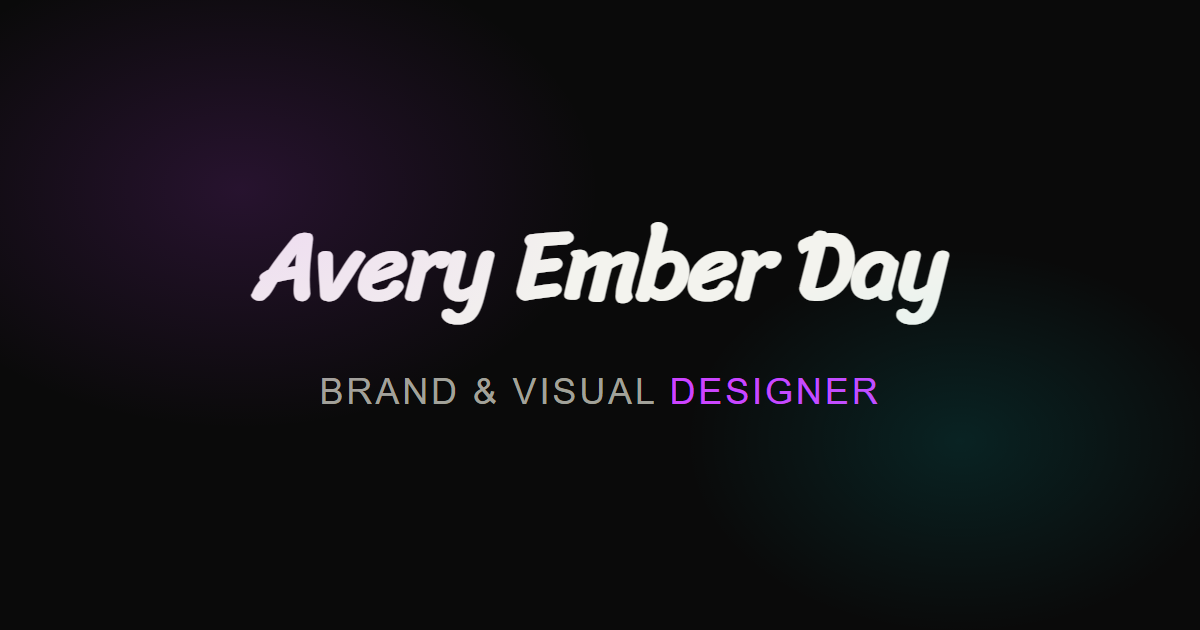
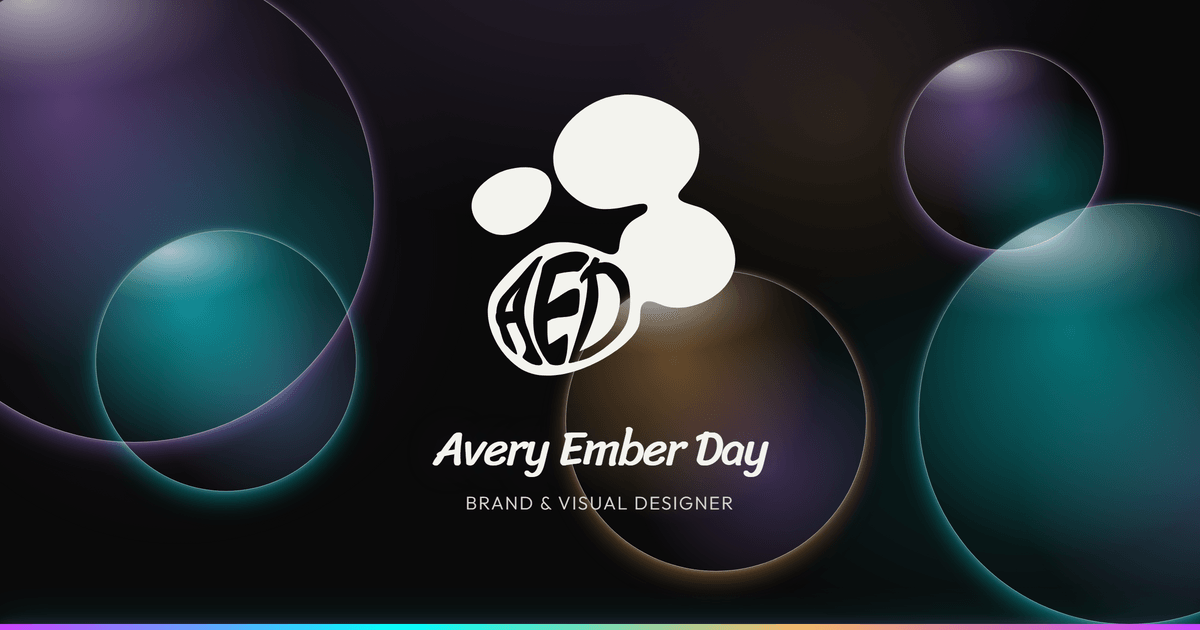
feat(meta): render the og share card from the live hero
The old card predated the current homepage entirely: no bubble logo, and a
two-tone "BRAND & VISUAL DESIGNER" treatment the site no longer uses. It was a
hand-made lookalike, so it drifted silently.

scripts/generate-og-image.js screenshots the real hero instead, so the card
tracks the site — re-run it after any hero change. Captured under reduced motion
so the ambient blobs stop at their declared positions and two runs of an
unchanged hero produce the same file. Rendered at 2x for crisp type then
downsampled to the declared 1200x630: 1.87 MB -> 153 KB.

It hides `nextjs-portal` before capturing. That is not cosmetic: the dev-tools
overlay is a real DOM element and the first render baked a red "3 Issues" badge
into the card.

New app/og.ts holds one shared image descriptor so the URL, dimensions and alt
cannot drift apart across pages. Declaring width/height/alt rather than a bare
URL is what lets Discord/Slack/Twitter lay the unfurl out without fetching the
image first.

LOGBOOK Entry 106.

diff --git a/scripts/generate-og-image.js b/scripts/generate-og-image.js
@@ -1,0 +1,103 @@
+#!/usr/bin/env node
+/**
+ * Render the social share card (`images/og-default.png`) from the live hero.
+ *
+ * The card is a screenshot of the real homepage hero rather than a hand-drawn lookalike, so it
+ * cannot drift from the site: re-run this after any hero change and the card follows. Written to
+ * BOTH `images/` and `public/` — `public/` is what the Next export serves.
+ *
+ * Requires the dev server: `npm run dev` (default http://localhost:3000).
+ * Usage: node scripts/generate-og-image.js [--url http://localhost:3000] [--theme dark|light]
+ * Plan: docs/plans/2026-07-27-contact-unhide-mistrust-assets.md
+ */
+
+const fs = require('fs');
+const path = require('path');
+const sharp = require('sharp');
+const { chromium } = require('playwright');
+
+const ROOT = path.join(__dirname, '..');
+const OUT = ['images/og-default.png', 'public/images/og-default.png'];
+
+// Facebook/Discord/Twitter all render 1.91:1; 1200x630 is the universally safe size.
+const WIDTH = 1200;
+const HEIGHT = 630;
+
+function arg(flag, fallback) {
+  const i = process.argv.indexOf(flag);
+  return i !== -1 && process.argv[i + 1] ? process.argv[i + 1] : fallback;
+}
+
+const url = arg('--url', 'http://localhost:3000');
+const theme = arg('--theme', 'dark');
+
+(async () => {
+  const browser = await chromium.launch();
+  const page = await browser.newPage({
+    viewport: { width: WIDTH, height: HEIGHT },
+    deviceScaleFactor: 2,
+  });
+
+  // Reduced motion is what makes this reproducible: the hero blobs stop mid-drift at their
+  // declared positions instead of wherever the animation happened to be, so two runs of an
+  // unchanged hero produce the same card.
+  await page.emulateMedia({ reducedMotion: 'reduce' });
+
+  try {
+    await page.goto(url, { waitUntil: 'networkidle', timeout: 15000 });
+  } catch {
+    console.error(`Could not reach ${url}. Start the dev server first: npm run dev`);
+    await browser.close();
+    process.exit(1);
+  }
+
+  await page.evaluate((t) => document.documentElement.setAttribute('data-theme', t), theme);
+
+  // Strip the page chrome. A share card wants the hero, not the site's navigation.
+  // `nextjs-portal` is the dev-tools overlay — it is a real element in the DOM and WILL be
+  // captured into the card if left alone (it was, on the first run: a red "3 Issues" badge).
+  await page.addStyleTag({
+    content: `
+      .brand-nav, .brand-footer, #return-to-top, .skip-link { display: none !important; }
+      nextjs-portal, [data-nextjs-toast], #__next-build-watcher { display: none !important; }
+      /* pt-20 exists to clear the fixed nav; with the nav gone it pushes the hero off-centre. */
+      #hero { padding-top: 0 !important; min-height: 100vh !important; }
+      /* The hero fills a tall viewport; in a 1.91:1 crop the same type reads small once
+         Discord scales the card down. Nudge the content block up without touching the site. */
+      .brand-hero-content { transform: scale(1.15); }
+      /* Brand signature: the spectrum bar normally sits directly under the hero, so the card
+         keeps it as a bottom edge rather than cropping it away. */
+      #hero::after {
+        content: '';
+        position: absolute;
+        inset-inline: 0;
+        bottom: 0;
+        height: 6px;
+        background: var(--brand-spectrum, linear-gradient(90deg,
+          var(--brand-accent), var(--brand-neon), var(--brand-gold), var(--brand-accent)));
+        z-index: 5;
+      }
+    `,
+  });
+
+  await page.waitForTimeout(400);
+
+  const shot = await page.locator('#hero').screenshot({ type: 'png' });
+
+  // Captured at 2x for crisp type, then downsampled to the declared 1200x630. A 2x PNG of a
+  // gradient-heavy hero lands near 2 MB, which is a slow unfurl for no visible gain at the size
+  // Discord and Twitter actually render.
+  const buf = await sharp(shot)
+    .resize(WIDTH, HEIGHT, { fit: 'fill' })
+    .png({ compressionLevel: 9, palette: true, quality: 90 })
+    .toBuffer();
+
+  for (const rel of OUT) {
+    const dest = path.join(ROOT, rel);
+    fs.mkdirSync(path.dirname(dest), { recursive: true });
+    fs.writeFileSync(dest, buf);
+    console.log(`${rel} — ${WIDTH}x${HEIGHT}, ${Math.round(buf.length / 1024)} KB`);
+  }
+
+  await browser.close();
+})();

diff --git a/app/og.ts b/app/og.ts
@@ -1,0 +1,17 @@
+/**
+ * The shared social share card, used by every page's `openGraph.images`.
+ *
+ * Declaring width/height/alt rather than a bare URL string matters in practice: Discord, Slack,
+ * and Twitter size the unfurl from `og:image:width`/`og:image:height` and will otherwise fetch
+ * the image before they can lay the card out, which is what makes an unfurl pop in late or fall
+ * back to a small thumbnail.
+ *
+ * The file itself is generated from the live homepage hero by `scripts/generate-og-image.js` —
+ * re-run that after any hero change so the card cannot drift from the site.
+ */
+export const ogImage = {
+  url: '/images/og-default.png',
+  width: 1200,
+  height: 630,
+  alt: 'Avery Ember Day — Brand & Visual Designer',
+} as const;

diff --git a/app/gallery/page.tsx b/app/gallery/page.tsx
@@ -2,6 +2,7 @@ import type { Metadata } from 'next';
 import PageHeader from '../PageHeader';
 import GalleryGrid from './GalleryGrid';
 import { galleryItems } from './gallery-data';
+import { ogImage } from '../og';
 
 export const metadata: Metadata = {
   title: 'Gallery — Avery Ember Day',
@@ -9,7 +10,7 @@ export const metadata: Metadata = {
   openGraph: {
     title: 'Gallery — Avery Ember Day',
     description: 'Art gallery — selected works by Avery Ember Day, including digital art, illustration, and mixed media.',
-    images: ['/images/og-default.png'],
+    images: [ogImage],
     type: 'website',
   },
   twitter: {

diff --git a/app/projects/page.tsx b/app/projects/page.tsx
@@ -2,6 +2,7 @@ import type { Metadata } from 'next';
 import './slideshow.css';
 import SlideshowScript from './SlideshowScript';
 import ProjectTabs from './ProjectTabs';
+import { ogImage } from '../og';
 
 export const metadata: Metadata = {
   title: 'Projects — Avery Ember Day',
@@ -9,7 +10,7 @@ export const metadata: Metadata = {
   openGraph: {
     title: 'Projects — Avery Ember Day',
     description: 'Selected projects by Avery Ember Day — brand identity, visual design, and narrative work.',
-    images: ['/images/og-default.png'],
+    images: [ogImage],
     type: 'website',
   },
   twitter: {
